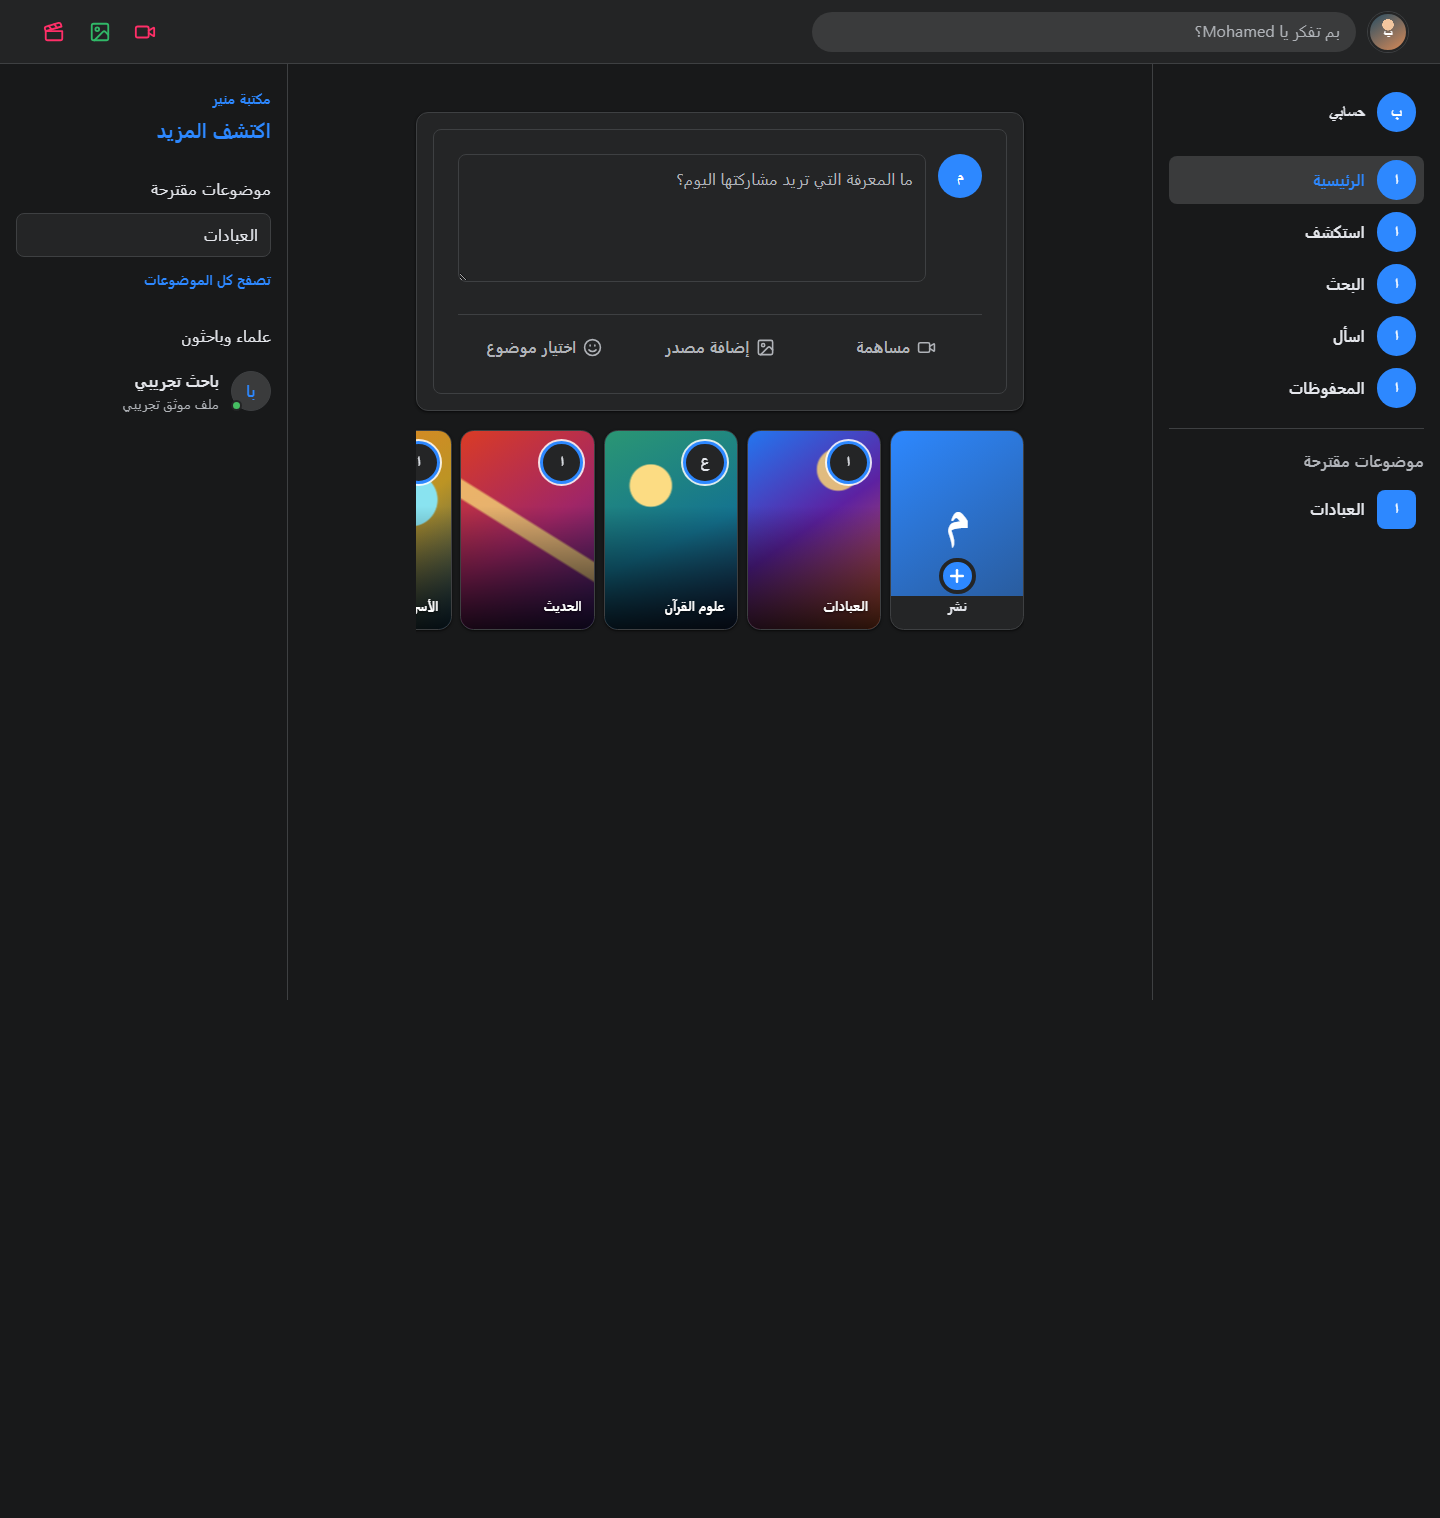
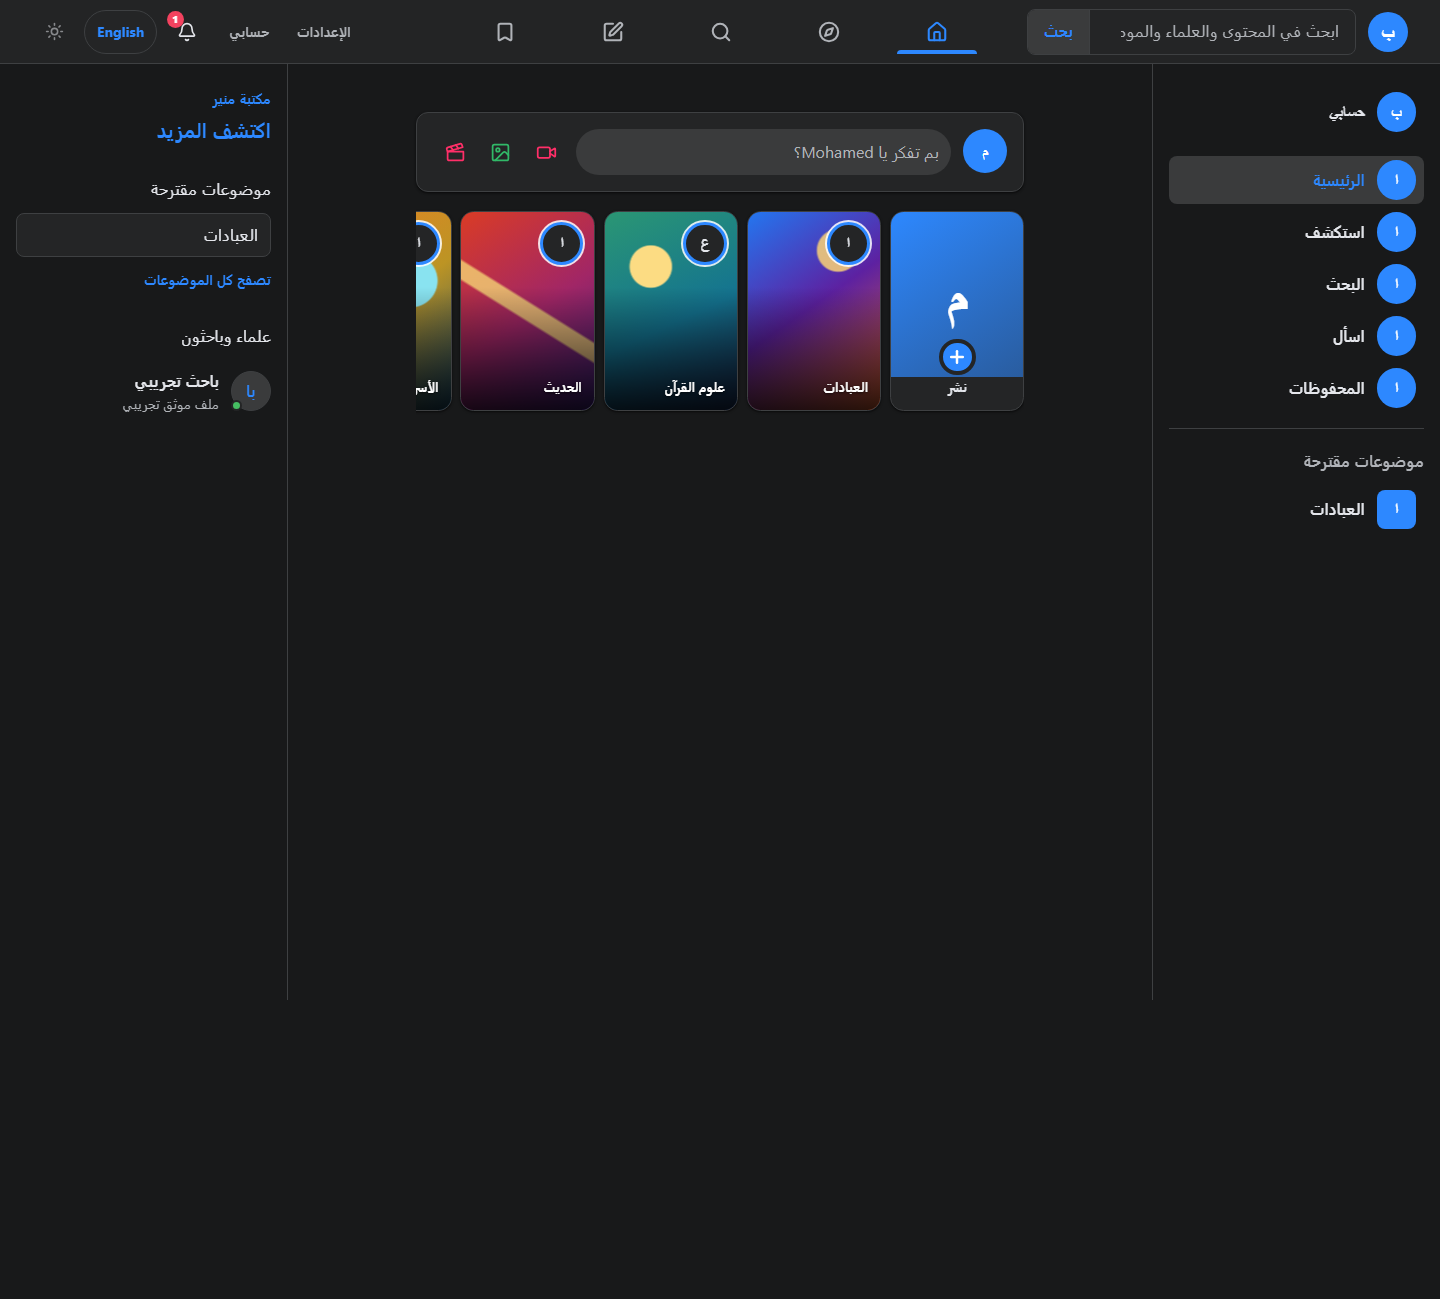
test(qa): verify composer bar and restored header

diff --git a/e2e/stitch-visual.e2e.ts b/e2e/stitch-visual.e2e.ts
@@ -16,16 +16,17 @@ test.describe("Mounir Stitch shell visual contract", () => {
     await expect(page.locator("html")).toHaveAttribute("dir", "rtl");
     await expect(search).toBeVisible();
     await expect(actions).toBeVisible();
-    await expect(page.locator(".app-shell__topnav")).toBeHidden();
-    await expect(actions.locator(".social-media-actions a")).toHaveCount(3);
-    await expect(actions.locator(".social-media-actions a").nth(0)).toHaveClass(/social-media-actions__reel/);
-    await expect(actions.locator(".social-media-actions a").nth(1)).toHaveClass(/social-media-actions__photo/);
-    await expect(actions.locator(".social-media-actions a").nth(2)).toHaveClass(/social-media-actions__video/);
-    await expect(actions.locator("a[aria-label='فيديو مباشر']")).toBeVisible();
-    await expect(actions.locator("a[aria-label='إضافة صورة']")).toBeVisible();
-    await expect(actions.locator("a[aria-label='إنشاء مقطع']")).toBeVisible();
-    await expect(actions.locator(".shell-actions, .shell-control, .app-shell__notifications")).toHaveCount(0);
-    await expect(page.locator("#shell-search-query")).toHaveAttribute("placeholder", "بم تفكر يا Mohamed؟");
+    await expect(page.locator(".app-shell__topnav")).toBeVisible();
+    await expect(actions.locator(".social-media-actions")).toHaveCount(0);
+    await expect(actions.locator(".shell-actions a")).toHaveCount(2);
+    await expect(actions.locator(".shell-control")).toHaveCount(2);
+    await expect(actions.locator(".app-shell__notifications")).toHaveCount(1);
+    await expect(page.locator("#shell-search-query")).toHaveAttribute("placeholder", /ابحث/);
+    await expect(page.locator("#feed-composer-input")).toHaveAttribute("placeholder", "بم تفكر يا Mohamed؟");
+    await expect(page.locator(".feed-composer__quick-actions button")).toHaveCount(3);
+    await expect(page.locator(".feed-composer__quick-actions button[aria-label='إنشاء مقطع']")).toBeVisible();
+    await expect(page.locator(".feed-composer__quick-actions button[aria-label='إضافة صورة']")).toBeVisible();
+    await expect(page.locator(".feed-composer__quick-actions button[aria-label='فيديو مباشر']")).toBeVisible();
     await expect(page.locator(".feed-tabs")).toHaveCount(0);
     await expect(navigation).toBeVisible();
     await expect(rail).toBeVisible();

diff --git a/workflow/handoffs/qa-agent-composer-header-restore-v1.md b/workflow/handoffs/qa-agent-composer-header-restore-v1.md
@@ -1,0 +1,43 @@
+# Handoff: qa-agent / composer-header-restore-v1
+
+- Status: `review`
+- Base ref: `5d3cddd`
+- Result ref: `committed handoff; see repository HEAD`
+- Tasks completed: `QA-COMPOSER-HEADER-001`
+
+## Delivered outputs
+
+| Path | Purpose |
+|---|---|
+| `e2e/stitch-visual.e2e.ts` | Restored header and composer-only social action assertions |
+| `reports/qa/composer-header-restore-v1.md` | Focused cross-browser evidence |
+| `reports/qa/screenshots/stitch-desktop-1440.png` | Updated desktop visual evidence |
+| `reports/qa/screenshots/stitch-mobile-390.png` | Updated mobile visual evidence |
+
+## Acceptance evidence
+
+| Criterion | Evidence/command | Result |
+|---|---|---|
+| Composer-only social bar | Prompt and three named buttons asserted | pass |
+| Original header restored | Search/topnav/account/notification/language/theme asserted | pass |
+| Responsive and browser behavior | Focused cross-browser suite | pass — 18/18 |
+
+## Decisions and assumptions
+
+- Dark default remains; restored header refers to its original functions and composition.
+
+## Open risks and deferred work
+
+- none
+
+## Cross-owner requests
+
+- none
+
+## Boundary check
+
+- Command: `./.github/scripts/Invoke-AgentBoundaryPS51.ps1 -AgentId qa-agent -BaseRef 5d3cddd`
+- Result: `pass — 5 QA-owned files checked`
+
+The agent stops after creating this handoff. Only the orchestrator may accept it and activate
+the successor.

diff --git a/reports/qa/composer-header-restore-v1.md b/reports/qa/composer-header-restore-v1.md
@@ -1,0 +1,8 @@
+# Composer bar and restored header QA
+
+- Original global header search, top navigation, account actions, notification, language, and theme controls are restored.
+- No social media action group remains in the global header.
+- The thought prompt and exactly three named media actions exist in the feed composer.
+- Composer precedes stories; feed tabs remain absent.
+- Mobile/tablet/desktop overflow and header search behavior pass in three engines.
+- Focused run: 18/18 passed.
